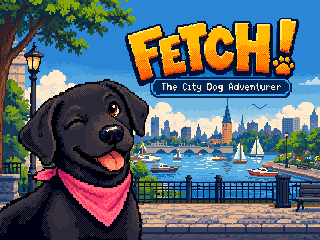
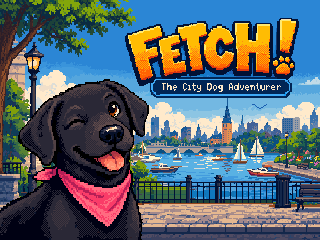
Plate-free background: continuous regular pickets, sail holes and halo, left slots follow the foliage
Claude-Session: https://claude.ai/code/session_015e2aJZGBdUfnxsoWVWiWHD

Changed region(s): [[0.4062, 0.7583, 0.5938, 0.8458], [0.6875, 0.7875, 0.875, 0.8458], [0.625, 0.7875, 0.6562, 0.8458]]

diff --git a/art/source/title/tools/regrid/noplate.py b/art/source/title/tools/regrid/noplate.py
@@ -184,5 +184,101 @@ def main(src=None, dst=None):
     return out, m
 
 
+
+
+def final_fixes(path=None):
+    """Producer's final fixes on the painted-out picture:
+    1. the lower pickets (rows 187 to the bottom rail) carry the same regular bar columns as
+       the upper slots, so the bars run continuously from the top rail to the kerb;
+    2. light-blue holes inside the right jib take the sail's cream; the pale halo beside the
+       left sail takes the water blue;
+    3. the left slots of the painted-out area follow the foliage beside them (one green per
+       row, the most common green of that row left of the plate), no tan or odd shapes."""
+    import build_bg as B
+    path = path or os.path.join(OUT, 'result_bg_noplate_320.png')
+    o = np.array(Image.open(path).convert('RGB'))
+    lab = srgb_to_lab(o.astype(np.float32))
+    rail = np.array([1, 17, 53], np.uint8)
+    isr = (o == rail).all(2)
+    vis = B.visible_mask() | (np.array(Image.open(os.path.join(OUT, 'qa_masks', 'plate_320.png'))) > 0)
+    x0, x1 = 135, 290
+    clean = [183, 184, 185]
+    bars = [i for i in range(x0, x1) if all(isr[j, i] for j in clean)
+            and not all(isr[j, i - 1] for j in clean) and not all(isr[j, i + 1] for j in clean)]
+    darkL = lab[..., 0] < 25
+    posts = [i for i in range(x0, x1) if all(darkL[j, i] for j in clean) and i not in bars]
+    bottom = 199
+    n1 = 0
+    for j in range(187, bottom):
+        for i in range(x0, x1):
+            if not vis[j, i] or i in posts:
+                continue
+            if i in bars:
+                if not isr[j, i]:
+                    o[j, i] = rail; n1 += 1
+            elif isr[j, i] or lab[j, i, 0] < 25:
+                nb = [tuple(o[j, x]) for x in range(i - 4, i + 5) if x not in bars and x not in posts
+                      and 0 <= x < NX and lab[j, x, 0] >= 25]
+                if not nb:
+                    nb = [tuple(o[j - 1, i])]
+                v, c = np.unique(np.array(nb), axis=0, return_counts=True)
+                o[j, i] = v[c.argmax()]; n1 += 1
+    # 2. sails
+    n2 = 0
+    for j in range(140, 159):
+        for i in range(258, 269):
+            c = lab[j, i]
+            if c[2] < -10 and c[0] > 55:
+                nb = [tuple(o[y, x]) for y in range(j - 2, j + 3) for x in range(i - 2, i + 3)
+                      if lab[y, x, 0] > 80 and lab[y, x, 2] > 0]
+                l = sum(1 for x in range(258, i) if lab[j, x, 0] > 80); r = sum(1 for x in range(i + 1, 269) if lab[j, x, 0] > 80)
+                if nb and l and r:
+                    v, cn = np.unique(np.array(nb), axis=0, return_counts=True)
+                    o[j, i] = v[cn.argmax()]; n2 += 1
+    for j in range(140, 149):
+        for i in range(215, 226):
+            c = lab[j, i]
+            if 60 < c[0] < 88 and c[2] < 5 and not (c[0] > 85):
+                nb = [tuple(o[y, x]) for y in range(j - 1, j + 2) for x in range(i - 2, i + 3)
+                      if 45 < lab[y, x, 0] < 70 and lab[y, x, 2] < -20]
+                if nb:
+                    v, cn = np.unique(np.array(nb), axis=0, return_counts=True)
+                    o[j, i] = v[cn.argmax()]; n2 += 1
+    # 3. left slots of the painted-out area follow the foliage beside them
+    n3 = 0
+    pl = 154
+    g = None
+    isr = (o == rail).all(2)
+    for j in range(187, bottom):
+        greens = [tuple(o[j, x]) for x in range(x0, pl) if x not in bars and x not in posts
+                  and int(o[j, x, 1]) > int(o[j, x, 2]) and int(o[j, x, 1]) > int(o[j, x, 0])]
+        if greens:
+            v, cn = np.unique(np.array(greens), axis=0, return_counts=True); g = v[cn.argmax()]
+        if g is None:
+            continue
+        for i in range(pl, 186):
+            if i in bars or i in posts or isr[j, i] or not vis[j, i]:
+                continue
+            cc = o[j, i]
+            green = int(cc[1]) > int(cc[2]) and int(cc[1]) > int(cc[0])
+            if not green or True:
+                if not (cc == g).all():
+                    o[j, i] = g; n3 += 1
+    # mixel repair in the touched rows
+    import qa
+    for _ in range(4):
+        n_m, mm = qa.mixels(o, np.ones(o.shape[:2], bool))
+        if not mm.any():
+            break
+        for j, i in np.argwhere(mm):
+            nb = [tuple(o[y, x]) for y, x in ((j, i - 1), (j, i + 1), (j - 1, i), (j + 1, i)) if 0 <= y < NY and 0 <= x < NX]
+            v, c = np.unique(np.array(nb), axis=0, return_counts=True)
+            o[j, i] = v[c.argmax()]
+    Image.fromarray(o).save(path)
+    Image.fromarray(np.dstack([o, np.full(o.shape[:2], 255, np.uint8)]), 'RGBA').save(path.replace('.png', '_rgba.png'))
+    print('final fixes: pickets %d, sails %d, left slots %d; bars %d posts %d' % (n1, n2, n3, len(bars), len(posts)))
+
+
 if __name__ == '__main__':
     main()
+    final_fixes()

diff --git a/out/metrics.md b/out/metrics.md
@@ -153,3 +153,8 @@ pitch down to the curb, the posts continue, slot backgrounds continue the slot r
 Gates: off-palette 0, mixels 0, checker 1.0, stroke L-corners 0. Form outside the plate and the
 regularised structures 2.14 / 6.95 (whole picture outside the plate 2.81 / 9.30; the painting has
 the plate under the fill, so form cannot be measured there).
+
+Final fixes on result_bg_noplate_320.png: lower pickets (rows 187-198) on the same regular bar
+columns as the upper slots, 274 px; sail holes and halo, 6 px; left slots of the painted-out area
+follow the foliage rows beside them, 314 px. Gates: off-palette 0, mixels 0, checker 1.0, stroke
+L-corners 0, form outside plate and regularised structures 2.14 / 6.96.
